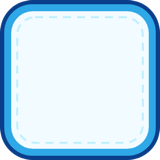
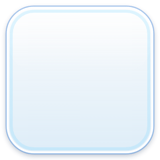
v1.5.0: 유리 질감 UI, 비네트 팝업, 가산 혼합 빛 효과, 글자 그림자

Changed region(s): [[0.0, 0.0, 1.0, 1.0]]

diff --git a/src/ui/widgets.js b/src/ui/widgets.js
@@ -7,6 +7,12 @@ export function button(scene, x, y, label, onClick, { kind = 'primary', width = 
   const key = `btn_${kind}`;
   const c = scene.add.container(x, y);
   const slice = kind === 'primary' ? 70 : 56;
+  // 주요 버튼 뒤에서 은은하게 숨 쉬는 빛 (가산 혼합)
+  if (kind === 'primary') {
+    const halo = scene.add.image(0, 6, 'ptc_glow').setDisplaySize(width * 1.35, height * 1.9).setTint(0xFFB070).setAlpha(0.35).setBlendMode(Phaser.BlendModes.ADD);
+    c.add(halo);
+    scene.tweens.add({ targets: halo, alpha: 0.12, yoyo: true, repeat: -1, duration: 1100, ease: 'Sine.InOut' });
+  }
   const bg = scene.add.nineslice(0, 0, key, null, width, height, slice, slice, 0, 0);
   const txt = scene.add.text(0, -8, label, { ...TXT.mid, fontSize: `${size}px`, stroke: kind === 'primary' ? '#8A2E08' : '#0B5E58' }).setOrigin(0.5);
   c.add([bg, txt]);
@@ -39,29 +45,34 @@ export function iconButton(scene, x, y, icon, onClick, { size = 120, bg = 'btn_i
 // 모달 팝업. 반환된 container 에 내용을 add 하고, close() 로 닫는다.
 export function popup(scene, { title, width = 900, height = 1100, onClose, closeButton = true } = {}) {
   const layer = scene.add.container(0, 0).setDepth(1000);
-  const dim = scene.add.rectangle(W / 2, H / 2, W * 2, H * 2, 0x06204A, 0.55).setInteractive();
+  // 배경: 옅은 남색 + 가장자리 비네트 (단색으로 덮지 않고 뒤 화면이 비쳐 보이게)
+  const dim = scene.add.rectangle(W / 2, H / 2, W * 2, H * 2, 0x06204A, 0.32).setInteractive();
+  const vig = scene.add.image(W / 2, H / 2, 'ui_vignette').setDisplaySize(W * 1.25, H * 1.15);
   const box = scene.add.container(W / 2, H / 2);
+  // 유리 패널 뒤 후광
+  const halo = scene.add.image(0, 0, 'ptc_glow').setDisplaySize(width * 1.6, height * 1.35).setTint(0xBFEFFF).setAlpha(0.45).setBlendMode(Phaser.BlendModes.ADD);
   const panel = scene.add.nineslice(0, 0, 'popup_panel', null, width, height, 96, 96, 96, 96);
-  box.add(panel);
+  box.add([halo, panel]);
   if (title) {
     const rib = scene.add.image(0, -height / 2 + 10, 'popup_ribbon').setDisplaySize(Math.min(width + 120, 980), 220);
     const tt = scene.add.text(0, -height / 2 - 4, title, { ...TXT.big, stroke: '#0B3E8A' }).setOrigin(0.5);
     box.add([rib, tt]);
   }
-  layer.add([dim, box]);
+  layer.add([dim, vig, box]);
+  vig.alpha = 0; scene.tweens.add({ targets: vig, alpha: 1, duration: 250 });
   const close = (silent) => {
     if (layer.closing) return; layer.closing = true;
     if (!silent) audio.play('sfx_popup_close');
     scene.tweens.add({ targets: box, scale: 0.8, alpha: 0, duration: 160, ease: 'Back.In' });
-    scene.tweens.add({ targets: dim, alpha: 0, duration: 180, onComplete: () => { layer.destroy(); onClose && onClose(); } });
+    scene.tweens.add({ targets: [dim, vig], alpha: 0, duration: 180, onComplete: () => { layer.destroy(); onClose && onClose(); } });
   };
   if (closeButton) {
     const x = iconButton(scene, width / 2 - 30, -height / 2 + 30, 'ico_plus', () => close(), { size: 110, bg: 'btn_close' });
     x.icon.setVisible(false);
     box.add(x);
   }
-  box.setScale(0.7); box.alpha = 0;
-  scene.tweens.add({ targets: box, scale: 1, alpha: 1, duration: 260, ease: 'Back.Out' });
+  box.setScale(0.82); box.alpha = 0; box.y += 40;
+  scene.tweens.add({ targets: box, scale: 1, alpha: 1, y: H / 2, duration: 320, ease: 'Back.Out' });
   audio.play('sfx_popup_open');
   layer.box = box; layer.close = close; layer.panelH = height; layer.panelW = width;
   return layer;
@@ -99,3 +110,14 @@ export function label(scene, x, y, text, style = TXT.mid) {
 }
 
 export { FONT, INK };
+
+// 빛 계열 이미지(빛·빛줄기·고리·반짝이·폭발 시트)는 가산 혼합으로 그려서 실제로 빛나 보이게
+const GLOW = new Set(['ptc_glow', 'ptc_rays', 'ptc_ring', 'ptc_spark', 'fx_bomb', 'fx_rainbow_orb', 'fx_special_create', 'fx_star_burst', 'fx_line_h', 'fx_line_v', 'fx_rainbow_beam']);
+export function enableGlow(scene) {
+  if (scene.__glowOn) return;        // scene.restart 때 같은 장면 객체가 재사용되므로 한 번만 등록
+  scene.__glowOn = true;
+  scene.events.on(Phaser.Scenes.Events.ADDED_TO_SCENE, go => {
+    const k = go.texture && go.texture.key;
+    if (k && GLOW.has(k) && go.blendMode === Phaser.BlendModes.NORMAL) go.setBlendMode(Phaser.BlendModes.ADD);
+  });
+}

diff --git a/src/config.js b/src/config.js
@@ -1,6 +1,6 @@
 // 화면·게임 공통 상수
 // 화면 아래에 표시되는 버전 (배포할 때마다 올림)
-export const VERSION = '1.4.2';
+export const VERSION = '1.5.0';
 export const W = 1080;
 export const BASE_H = 1920;
 // 실제 세로 길이 (세로로 긴 폰에서는 1920 보다 커짐). ES 모듈 live binding 이라 import 한 곳에서도 갱신된 값이 보인다.
@@ -25,10 +25,11 @@ export const MAP_THEME = [
 export const LEVELS_PER_WORLD = 10;
 
 // 텍스트 스타일 프리셋
+const SHADOW = { offsetX: 0, offsetY: 5, color: 'rgba(6,32,74,0.45)', blur: 10, stroke: true, fill: true };
 export const TXT = {
-  title: { fontFamily: FONT, fontSize: '84px', color: '#ffffff', stroke: INK, strokeThickness: 14 },
-  big: { fontFamily: FONT, fontSize: '64px', color: '#ffffff', stroke: INK, strokeThickness: 12 },
-  mid: { fontFamily: FONT, fontSize: '48px', color: '#ffffff', stroke: INK, strokeThickness: 10 },
+  title: { fontFamily: FONT, fontSize: '84px', color: '#ffffff', stroke: INK, strokeThickness: 14, shadow: SHADOW },
+  big: { fontFamily: FONT, fontSize: '64px', color: '#ffffff', stroke: INK, strokeThickness: 12, shadow: SHADOW },
+  mid: { fontFamily: FONT, fontSize: '48px', color: '#ffffff', stroke: INK, strokeThickness: 10, shadow: { ...SHADOW, offsetY: 4, blur: 8 } },
   small: { fontFamily: FONT, fontSize: '36px', color: '#ffffff', stroke: INK, strokeThickness: 8 },
   body: { fontFamily: FONT, fontSize: '40px', color: INK, align: 'center', wordWrap: { width: 700, useAdvancedWrap: true } },
   dark: { fontFamily: FONT, fontSize: '44px', color: INK },

diff --git a/src/scenes/Game.js b/src/scenes/Game.js
@@ -6,7 +6,7 @@ import { t } from '../i18n.js';
 import { audio, WORLD_BGM } from '../audio.js';
 import { pickTip } from '../tips.js';
 import { load, save, recordWin, addCoins, addBooster, spendCoins, useBooster } from '../save.js';
-import { button, iconButton, popup, toast, starsRow } from '../ui/widgets.js';
+import { button, iconButton, popup, toast, starsRow, enableGlow } from '../ui/widgets.js';
 
 const BOARD_TOP = 436;
 // 별 게이지: 별 3개를 같은 간격에 두고, 점수는 별 사이 구간별로 선형 보간 (기준 점수 간격이 달라도 보기 좋게)
@@ -51,6 +51,7 @@ export class GameScene extends Phaser.Scene {
 
 
   create() {
+    enableGlow(this);
     const s = this.engine.s;
     this.boardBottom = H - 270;
     const bg = this.add.image(W / 2, H / 2, `bg_game_${this.level.world}`);

diff --git a/src/scenes/WorldClear.js b/src/scenes/WorldClear.js
@@ -4,6 +4,7 @@
 // 보스(10번째) 레벨을 처음 깼을 때 Game → WorldClear → Map(새 월드로 카메라 이동) 순서로 나온다.
 import { W, H, TXT, MAP_THEME, WORLD_COUNT } from '../config.js';
 import { t } from '../i18n.js';
+import { enableGlow } from '../ui/widgets.js';
 import { audio } from '../audio.js';
 import { addCoins } from '../save.js';
 import { asset } from '../config.js';
@@ -23,6 +24,7 @@ export class WorldClearScene extends Phaser.Scene {
   }
 
   create({ world = 1 } = {}) {
+    enableGlow(this);
     const last = world >= WORLD_COUNT;
     const next = Math.min(WORLD_COUNT, world + 1);
     const [top, bottom] = MAP_THEME[(next - 1) % MAP_THEME.length];

diff --git a/src/scenes/Title.js b/src/scenes/Title.js
@@ -2,13 +2,14 @@ import { W, H, TXT, VERSION } from '../config.js';
 import { t } from '../i18n.js';
 import { audio } from '../audio.js';
 import { load } from '../save.js';
-import { button, iconButton, popup, toast } from '../ui/widgets.js';
+import { button, iconButton, popup, toast, enableGlow } from '../ui/widgets.js';
 import { settingsPopup } from './Map.js';
 
 export class TitleScene extends Phaser.Scene {
   constructor() { super('Title'); }
 
   create() {
+    enableGlow(this);
     const bg = this.add.image(W / 2, H / 2, 'bg_title');
     bg.setScale(Math.max(W / bg.width, H / bg.height));
     const logo = this.add.image(W / 2, H * 0.2, 'logo_game').setScale(1.05);

diff --git a/src/scenes/Map.js b/src/scenes/Map.js
@@ -4,7 +4,7 @@ import { t } from '../i18n.js';
 import { audio } from '../audio.js';
 import { load, save, totalStars } from '../save.js';
 import { LEVELS } from '../core/levels.js';
-import { popup, button, iconButton, toast } from '../ui/widgets.js';
+import { popup, button, iconButton, toast, enableGlow } from '../ui/widgets.js';
 
 const WORLD_H = 3840;
 const WORLDS = WORLD_COUNT;
@@ -45,6 +45,7 @@ export class MapScene extends Phaser.Scene {
   constructor() { super('Map'); }
 
   create(data = {}) {
+    enableGlow(this);
     const d = load();
     this.cameras.main.setBounds(0, 0, W, TOTAL_H);
     // 배경 (아래가 월드 1)
